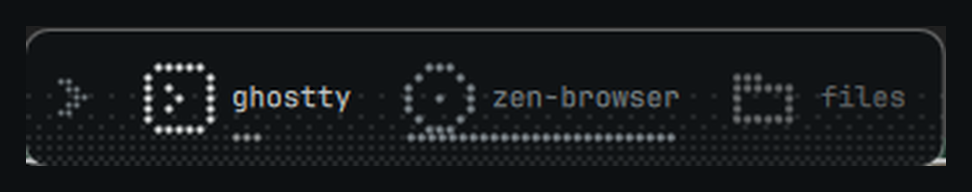
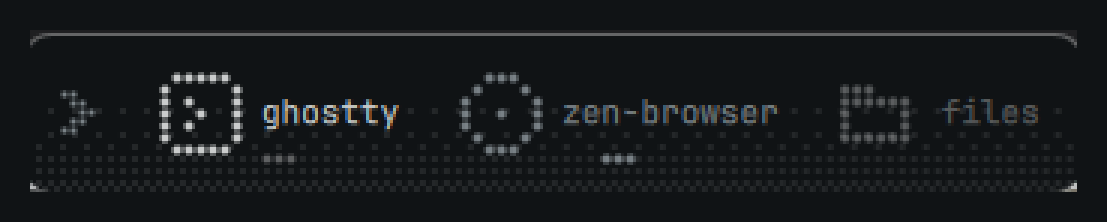
refactor: carry item state with brightness alone
Two states were doing more than signalling. Hover drew a dithered wash
behind the item, and focus grew the marker from three dots to a run
spanning the whole item. Both added motion and a second surface to a
strip whose whole idea is that it does not move.

Hover now just lifts a dim entry towards the running ones, which is the
only entry that needs an affordance -- a running or focused item is
already at full brightness, so there is nothing to light up. The marker
keeps its three dots in every state and only changes colour, so focus
reads as the row lighting up rather than as the marker growing.

Colour transitions are eased, since colour is now the only thing that
moves. itemColor stops being readonly so Behavior can intercept the
binding's writes.

preview.png and preview.svg regenerated for the new encoding.

diff --git a/components/DockItem.qml b/components/DockItem.qml
@@ -36,13 +36,10 @@ Item {
     readonly property int itemHeight: metrics.itemHeight
     readonly property int glyphSize: metrics.glyphSize
     readonly property int itemPadding: metrics.itemPadding
-    readonly property int ditherCell: metrics.ditherCell
     // The marker sits on the glyph pitch so its dots line up with the matrix
-    // above them. A focused application spans its own width; a running one is a
-    // fixed short run.
+    // above them.
     readonly property int markerPitch: Math.max(2, Math.floor(metrics.glyphSize / 7))
-    readonly property int markerDots: root.localActive
-        ? Math.max(3, Math.floor(itemRow.implicitWidth / markerPitch)) : 3
+    readonly property int markerDots: 3
     readonly property bool localActive: hasLocalActiveWindow()
     readonly property bool running: !!root.itemRecord.running
     readonly property bool urgent: !!root.itemRecord.urgent
@@ -58,15 +55,20 @@ Item {
     readonly property bool labelVisible: root.showLabels === "always"
         || (root.showLabels === "hover" && root.hovered)
 
-    // Running is carried by the label's weight and the marker rule underneath;
-    // a pinned app that is not running stays dim so the strip reads like a
-    // command history where only live entries are lit.
-    readonly property color itemColor: {
+    // Every state is carried by brightness alone: nothing moves, resizes, or
+    // gains a background. A pinned application that is not running sits dim so
+    // the strip reads like a command history where only live entries are lit,
+    // and hovering one lifts it towards the running ones. Not readonly, because
+    // Behavior needs to intercept the binding's writes to ease them.
+    property color itemColor: {
         if (root.urgent) return Color.urgent
-        if (root.localActive) return Color.accent
-        if (root.pressed) return Color.accent
+        if (root.localActive || root.pressed) return Color.accent
         if (root.running) return Color.bar.text
-        return Util.alpha(Color.bar.text, root.hovered ? 0.85 : 0.45)
+        return Util.alpha(Color.bar.text, root.hovered ? 0.9 : 0.4)
+    }
+
+    Behavior on itemColor {
+        ColorAnimation { duration: 120; easing.type: Easing.OutCubic }
     }
 
     function hasLocalActiveWindow() {
@@ -85,25 +87,6 @@ Item {
     implicitHeight: itemHeight
     width: implicitWidth
     height: implicitHeight
-
-    // Hover and press read as a dithered wash rising from the bottom of the
-    // item rather than a flat translucent fill, so the interaction states share
-    // the strip's texture instead of introducing a second visual language.
-    Item {
-        anchors.fill: parent
-        clip: true
-        visible: root.hovered || root.pressed || root.contextMenuOpen
-
-        DitherPattern {
-            anchors.fill: parent
-            cell: root.ditherCell
-            tint: root.pressed ? Color.accent : Color.bar.text
-            topCoverage: root.pressed ? 0.35 : 0.10
-            bottomCoverage: root.pressed ? 0.95 : 0.55
-            gamma: 1.4
-            opacity: root.pressed ? 0.5 : 0.35
-        }
-    }
 
     Row {
         id: itemRow
@@ -147,9 +130,9 @@ Item {
         }
     }
 
-    // Marker rule, drawn on the same matrix as the glyphs: a run of accent dots
-    // spanning the focused application, three dim dots under one that is merely
-    // running, nothing under a pinned application that is not.
+    // Marker rule, on the same matrix as the glyphs. The run stays the same
+    // length in every state and only its brightness changes, so focus reads as
+    // the row lighting up rather than as the marker growing.
     DotMatrix {
         id: marker
         visible: root.running
@@ -162,7 +145,11 @@ Item {
         cells: PixelGlyphs.ruleCells(root.markerDots)
         tint: root.urgent ? Color.urgent
             : root.localActive ? Color.accent
-            : Util.alpha(Color.bar.text, 0.6)
+            : Util.alpha(Color.bar.text, 0.35)
+
+        Behavior on tint {
+            ColorAnimation { duration: 120; easing.type: Easing.OutCubic }
+        }
     }
 
     MouseArea {

diff --git a/CHANGELOG.md b/CHANGELOG.md
@@ -16,11 +16,13 @@ All notable changes to OmaDock are documented here.
 ### Changed
 
 - Redesigned the dock as a terminal command strip: one bordered surface with a
-  prompt, monochrome Nerd Font glyphs tinted to the theme, and a lowercase
-  command-style label per application, replacing the row of bordered icon tiles.
-- Application state now reads as a marker rule — an accent rule under the focused
-  application, a short dim rule under one that is merely running, and nothing
-  under a pinned application that is not running.
+  prompt, and a monochrome glyph beside a lowercase command-style label per
+  application, replacing the row of bordered icon tiles.
+- Application state is carried by brightness alone. The focused application is
+  lit in the accent colour, a running one sits at normal weight, and a pinned one
+  that is not running stays dim; hovering a dim entry lifts it. Nothing moves,
+  resizes, or gains a background between states, and the three-dot marker under a
+  running application keeps its length in every state.
 - Scroll-to-cycle accumulates wheel deltas into notches, so one touchpad flick no
   longer cycles through every window at once, and scrolling back cycles backwards.
 - Window lists sort by address so "next window" stays stable between rebuilds.
@@ -32,9 +34,7 @@ All notable changes to OmaDock are documented here.
 - The prompt and the marker rules sit on the same matrix as the glyphs, so the
   whole strip reads as one dot grid instead of mixing dots with vector strokes.
 - Added an ordered-dither (Bayer) texture that gathers along the bottom edge of
-  the strip, with hover and press drawn as a dithered wash rather than a flat
-  translucent fill. `appearance.showDither` and `appearance.ditherCell` control
-  it.
+  the strip. `appearance.showDither` and `appearance.ditherCell` control it.
 - The strip is taller and roomier: a 28px glyph in a 40px row, up from 16 and 28.
 - The surface is opaque by default. At the previous 0.94 the window behind
   showed through clearly enough to read.
